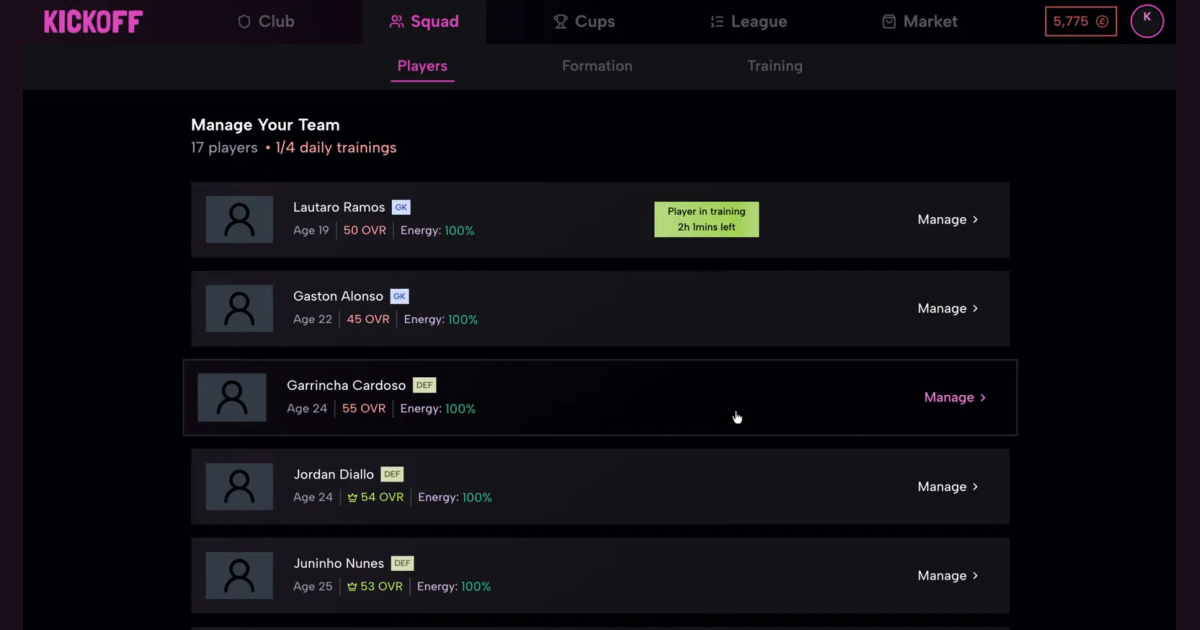
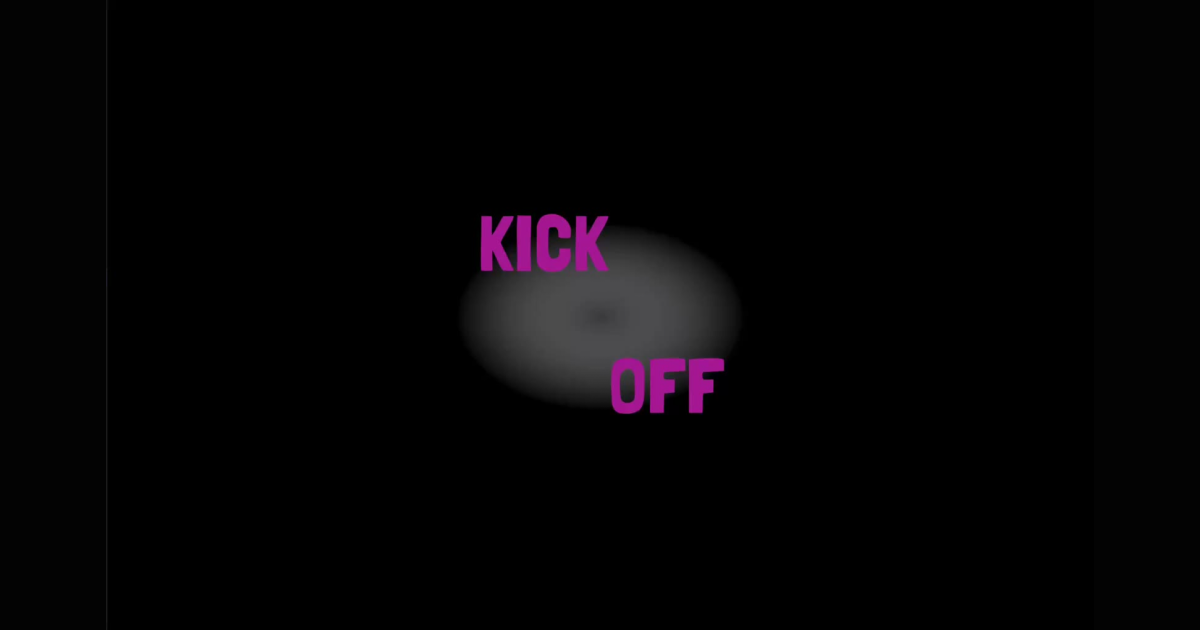
Fold brand OG into the /og/<slug>.png convention
Brand/gallery entries now get real pre-generated 1200×630 share cards
like work + lab, instead of ChipMango's bespoke full-res ogImage override
(which platforms would centre-crop) and Kickoff's stale lab-era card.

- Add scripts/generate-brand-og.mjs (+ og:brand) — same corner-sampled
  contain-pad technique as the case/lab generators, but with an explicit
  SOURCES map since brand entries are TS modules a plain .mjs can't import.
  Sources are a per-entry curation call: chipmango→hero, kickoff→poster.
- Generate /og/chipmango.png (was missing) + regenerate /og/kickoff.png.
- Drop the ogImage override (BrandCardMeta, chipmango.ts, page.tsx) and
  unify the existence check — brand now uses fs.existsSync(/og/<slug>.png)
  like work/lab.

diff --git a/src/app/(site)/design/[slug]/page.tsx b/src/app/(site)/design/[slug]/page.tsx
@@ -29,9 +29,10 @@ export function generateStaticParams() {
  * becomes its OG/Twitter share image, frontmatter drives title + description.
  *
  * OG image source: `/og/<slug>.png` (1200×630), pre-generated by
- * `scripts/generate-case-og.mjs` (case studies) or `scripts/generate-lab-og.mjs`
- * (lab items, from the hero clip's poster) — both use the same corner-sampled
- * padding technique and share the `og/` output dir, so work and lab slugs must
+ * `scripts/generate-case-og.mjs` (case studies), `scripts/generate-lab-og.mjs`
+ * (lab items, from the hero clip's poster), or `scripts/generate-brand-og.mjs`
+ * (brand/gallery entries) — all three use the same corner-sampled padding
+ * technique and share the `og/` output dir, so work, lab, and brand slugs must
  * stay distinct (they do; checked at merge time). Rerun the relevant script
  * when a cover/poster changes. If a slug has no `/og/<slug>.png` yet, no
  * per-route image is set and the share preview falls back to the site
@@ -52,13 +53,14 @@ export async function generateMetadata({ params }: PageProps): Promise<Metadata>
   const title = meta?.title ?? brand!.title;
   const description = meta?.summary ?? brand!.description;
 
-  // Brand entries carry their own bespoke OG path (no /og/<slug>.png
-  // generation step for them yet — TODO, flagged at the S41 migration) until
-  // existence-checking the generated image for work/lab entries.
-  const ogPath = brand?.ogImage ?? `/og/${slug}.png`;
-  const ogExists =
-    brand !== undefined ||
-    fs.existsSync(path.join(process.cwd(), "public", "og", `${slug}.png`));
+  // Work, lab, AND brand entries all resolve their share image the same way:
+  // existence-check the pre-generated `/og/<slug>.png` (S43 folded brand into
+  // this convention — see generate-brand-og.mjs). Missing file → no per-route
+  // image, falls back to the site default.
+  const ogPath = `/og/${slug}.png`;
+  const ogExists = fs.existsSync(
+    path.join(process.cwd(), "public", "og", `${slug}.png`),
+  );
   const images = ogExists
     ? [{ url: ogPath, width: OG_W, height: OG_H, alt: title }]
     : undefined;

diff --git a/src/content/brand/chipmango.ts b/src/content/brand/chipmango.ts
@@ -149,7 +149,6 @@ export const chipmango: BrandEntry = {
     video: null,
     ratio: "8 / 5", // house cover ratio — wordmark-on-mosaic motif cropped to 8:5 (covers live at 8:5 or 16:9 only)
     blurDataURL: undefined,
-    ogImage: "/design/chipmango/hero.webp", // bespoke OG (pre-[slug] convention) — TODO: fold into /og/<slug>.png like the rest
     eyebrow: "Self-initiated",
     tags: ["Visual Identity", "Art Direction", "Web Design"],
     description:

diff --git a/src/content/brand.ts b/src/content/brand.ts
@@ -17,9 +17,6 @@ export interface BrandCardMeta {
   video: string | null;
   ratio: string | null;
   blurDataURL?: string;
-  /** Bespoke OG image path, used until brand entries get a real /og/<slug>.png
-   *  generation step (TODO, flagged at the ChipMango migration). */
-  ogImage?: string;
 }
 
 export interface BrandEntry {
